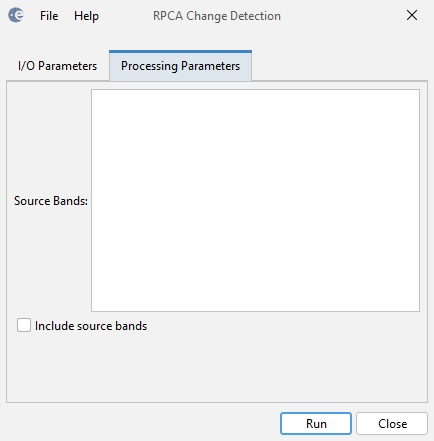
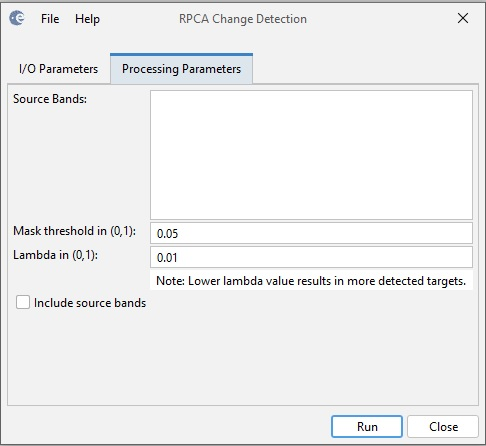
Modified UI to add two processing parameters

diff --git a/sar-op-feature-extraction-ui/src/main/resources/eu/esa/sar/fex/docs/operators/RPCAChangeDetectionOp.html b/sar-op-feature-extraction-ui/src/main/resources/eu/esa/sar/fex/docs/operators/RPCAChangeDetectionOp.html
@@ -41,9 +41,14 @@ thresholding or any morphological operations to the target images.<br><h4>Input<
 <ol>
     <li>Source Bands: All bands of the source product. User can
 select two bands for change detection. If no bands are selected, then
-by default all bands are used.</li><li>Include source bands: if the checkbox is selected, all
+by default all bands are used.</li><li>Mask threshold: <span style="color: rgb(0, 0, 0); font-family: Verdana,Arial,Helvetica,sans-serif; font-size: 12px; font-style: normal; font-weight: 400; letter-spacing: normal; orphans: 2; text-align: left; text-indent: 0px; text-transform: none; widows: 2; word-spacing: 0px; white-space: normal; background-color: rgb(255, 255, 255); display: inline ! important; float: none;">Threshold
+used in creating the change mask. Pixel in the target band
+with&nbsp;value that is greater than this threshold will be masked as
+1, otherwise 0.</span></li><li><span style="color: rgb(0, 0, 0); font-family: Verdana,Arial,Helvetica,sans-serif; font-size: 12px; font-style: normal; font-weight: 400; letter-spacing: normal; orphans: 2; text-align: left; text-indent: 0px; text-transform: none; widows: 2; word-spacing: 0px; white-space: normal; background-color: rgb(255, 255, 255); display: inline ! important; float: none;">Lambda:
+A regularization parameter that balances the background and target
+terms. Lower lambda value results in more detected targets. <br></span></li><li>Include source bands: If the checkbox is selected, all
 bands&nbsp;of the source product will be included in the target product
-together with the&nbsp;bands of the detected targets. </li></ol><div style="margin-left: 40px;"><img style="width: 434px; height: 441px;" alt="" src="images/rpca_change_detection_dlg.jpg">&nbsp;<br></div>
+together with the&nbsp;bands of the detected targets. </li></ol><div style="margin-left: 40px;"><img style="width: 486px; height: 446px;" alt="" src="images/rpca_change_detection_dlg.jpg">&nbsp;<br></div>
 &nbsp;&nbsp;&nbsp; &nbsp;&nbsp;&nbsp; &nbsp;&nbsp;&nbsp; Figure 1. RPCA Change Detection dialog box<br><p style="font-style: italic;">Reference:</p>
 
 <p> [1] Schwartz, C.; Ramos, L.P.; Duarte, L.T.; Pinho, M.d.S.;

diff --git a/sar-op-feature-extraction/src/main/java/eu/esa/sar/fex/gpf/changedetection/RPCAOp.java b/sar-op-feature-extraction/src/main/java/eu/esa/sar/fex/gpf/changedetection/RPCAOp.java
@@ -60,8 +60,11 @@ public class RPCAOp extends Operator {
             rasterDataNodeType = Band.class, label = "Source Bands")
     private String[] sourceBandNames;
 
-//    @Parameter(description = "Mask threshold", interval = "[0, *)", defaultValue = "0.5", label = "Mask threshold")
-//    private float maskThreshold = 0.5f;
+    @Parameter(description = "Mask threshold", interval = "(0, 1)", defaultValue = "0.05", label = "Mask threshold")
+    private float maskThreshold = 0.05f;
+
+    @Parameter(description = "Regularization parameter", interval = "(0, 1)", defaultValue = "0.01", label = "Lambda")
+    private float lambda = 0.01f;
 
     @Parameter(description = "Include source bands", defaultValue = "false", label = "Include source bands")
     private boolean includeSourceBands = false;
@@ -71,7 +74,6 @@ public class RPCAOp extends Operator {
     private HashMap<Band, Band> targetBandToSourceBandMap = new HashMap<>(2);
     private Band[] bandsToDecompose = null;
 
-    private double lambda = 0.0;
     private double rho = 0.0;
     private double rhoInv = 0.0;
     private double overlapPercentage = 0.0;
@@ -105,7 +107,6 @@ public class RPCAOp extends Operator {
         }
         rho = 1.0 / (4.0 * sumMean);
         rhoInv = 1.0 / rho;
-        lambda = 1.0 / Math.sqrt(Math.max(sourceImageWidth, sourceImageHeight));
         lambdaOverRho = lambda * rhoInv;
     }
 
@@ -132,11 +133,22 @@ public class RPCAOp extends Operator {
                 ProductUtils.copyBand(bandName, sourceProduct, bandName, targetProduct, true);
             }
 
-            Band tgtBand = targetProduct.addBand(bandName + MASK_NAME, ProductData.TYPE_FLOAT32);
+            Band tgtBand = targetProduct.addBand(bandName + SPARSE_NAME, ProductData.TYPE_FLOAT32);
             tgtBand.setUnit(srcBand.getUnit());
-            tgtBand.setDescription("Potential changes in image");
+            tgtBand.setDescription("Detected targets in image");
             targetBandToSourceBandMap.put(tgtBand, srcBand);
             bandsToDecompose[b++] = tgtBand;
+
+            //create mask
+            String expression = tgtBand.getName() + " > "+ maskThreshold + " ? 1 : 0";
+            final Mask mask = new Mask(bandName + MASK_NAME, sourceImageWidth, sourceImageHeight, Mask.BandMathsType.INSTANCE);
+            mask.setDescription("Change");
+            mask.getImageConfig().setValue("color", Color.RED);
+            mask.getImageConfig().setValue("transparency", 0.7);
+            mask.getImageConfig().setValue("expression", expression);
+            mask.setNoDataValue(0);
+            mask.setNoDataValueUsed(true);
+            targetProduct.getMaskGroup().add(mask);
         }
     }
 

diff --git a/sar-op-feature-extraction/src/test/java/eu/esa/sar/fex/gpf/changedetection/RPCAOpTest.java b/sar-op-feature-extraction/src/test/java/eu/esa/sar/fex/gpf/changedetection/RPCAOpTest.java
@@ -39,16 +39,18 @@ public class RPCAOpTest {
         final Product srcProduct = createProduct();
         RPCAOp op = new RPCAOp();
         op.setSourceProduct(srcProduct);
+        op.setParameter("maskThreshold", 0.05f);
+        op.setParameter("lambda", 0.316f);
 
         // get targetProduct: execute initialize()
         final Product targetProduct = op.getTargetProduct();
 
-        final Band mstBand = targetProduct.getBand("Sigma0_VV_mst_03Feb2018_change");
+        final Band mstBand = targetProduct.getBand("Sigma0_VV_mst_03Feb2018_sparse");
         if (mstBand == null) {
             throw new IOException(mstBand + " not found");
         }
 
-        final Band slvBand = targetProduct.getBand("Sigma0_VV_slv1_15Feb2018_change");
+        final Band slvBand = targetProduct.getBand("Sigma0_VV_slv1_15Feb2018_sparse");
         if (slvBand == null) {
             throw new IOException(slvBand + " not found");
         }
